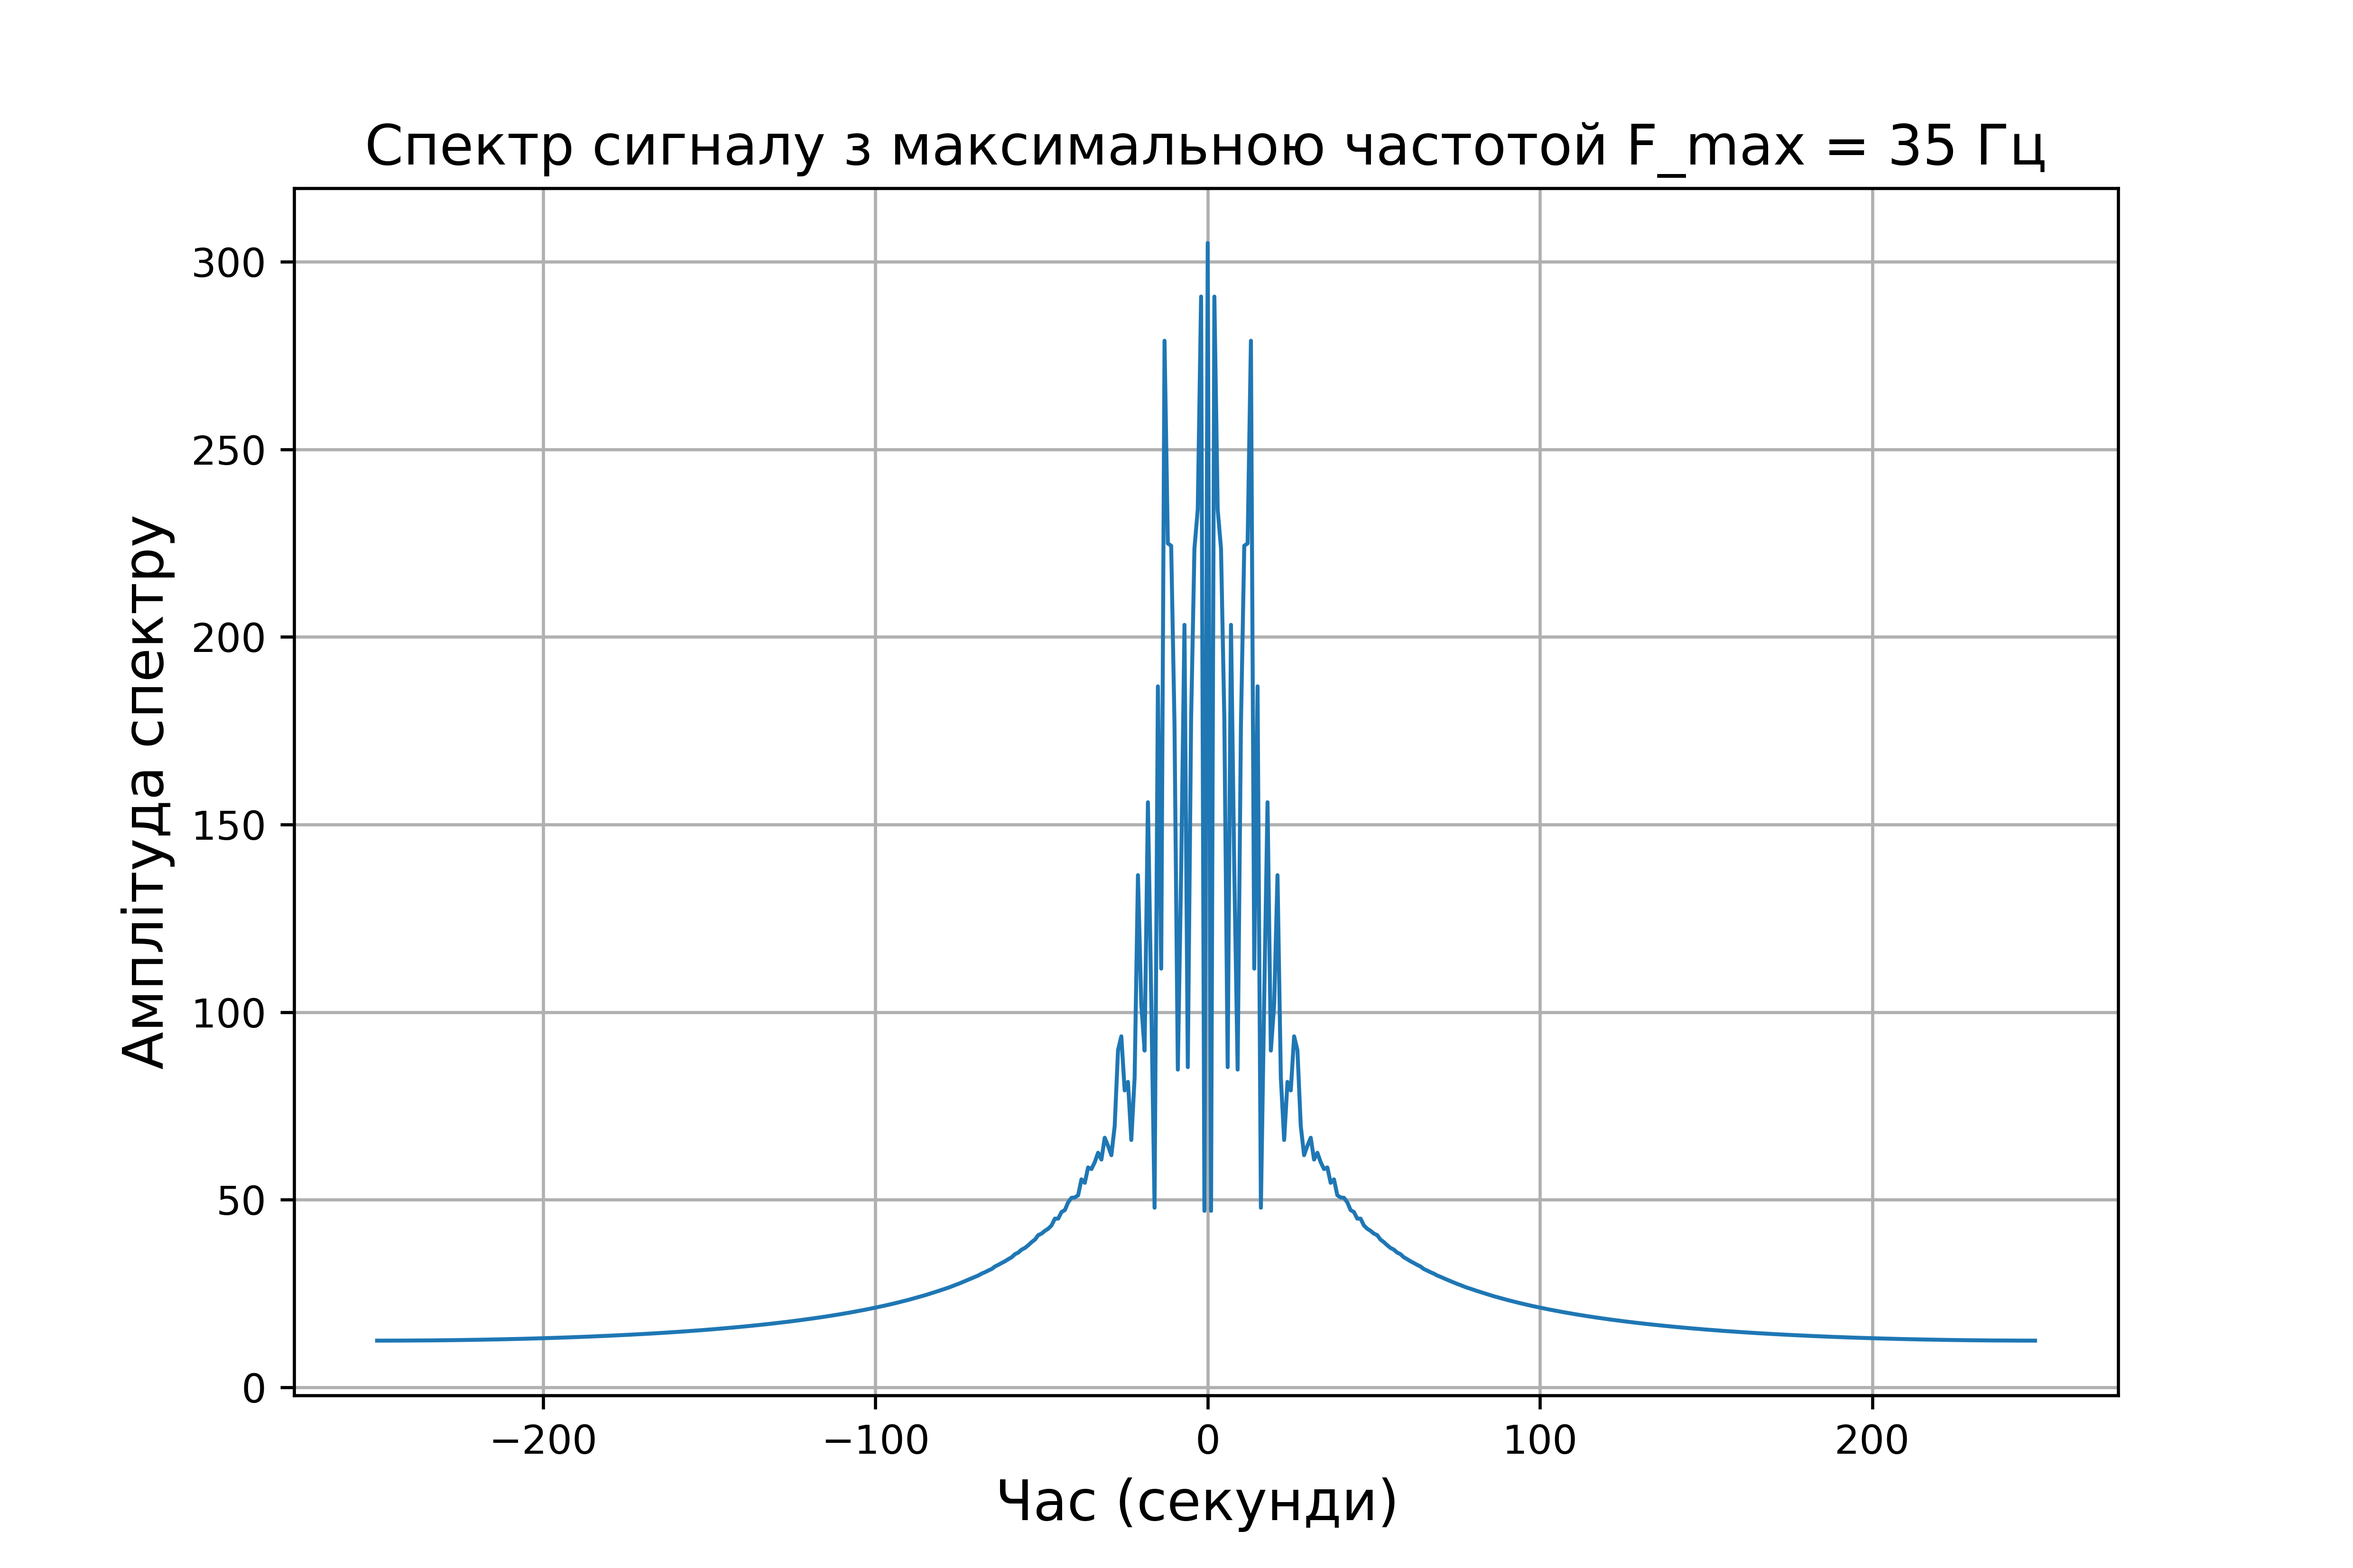
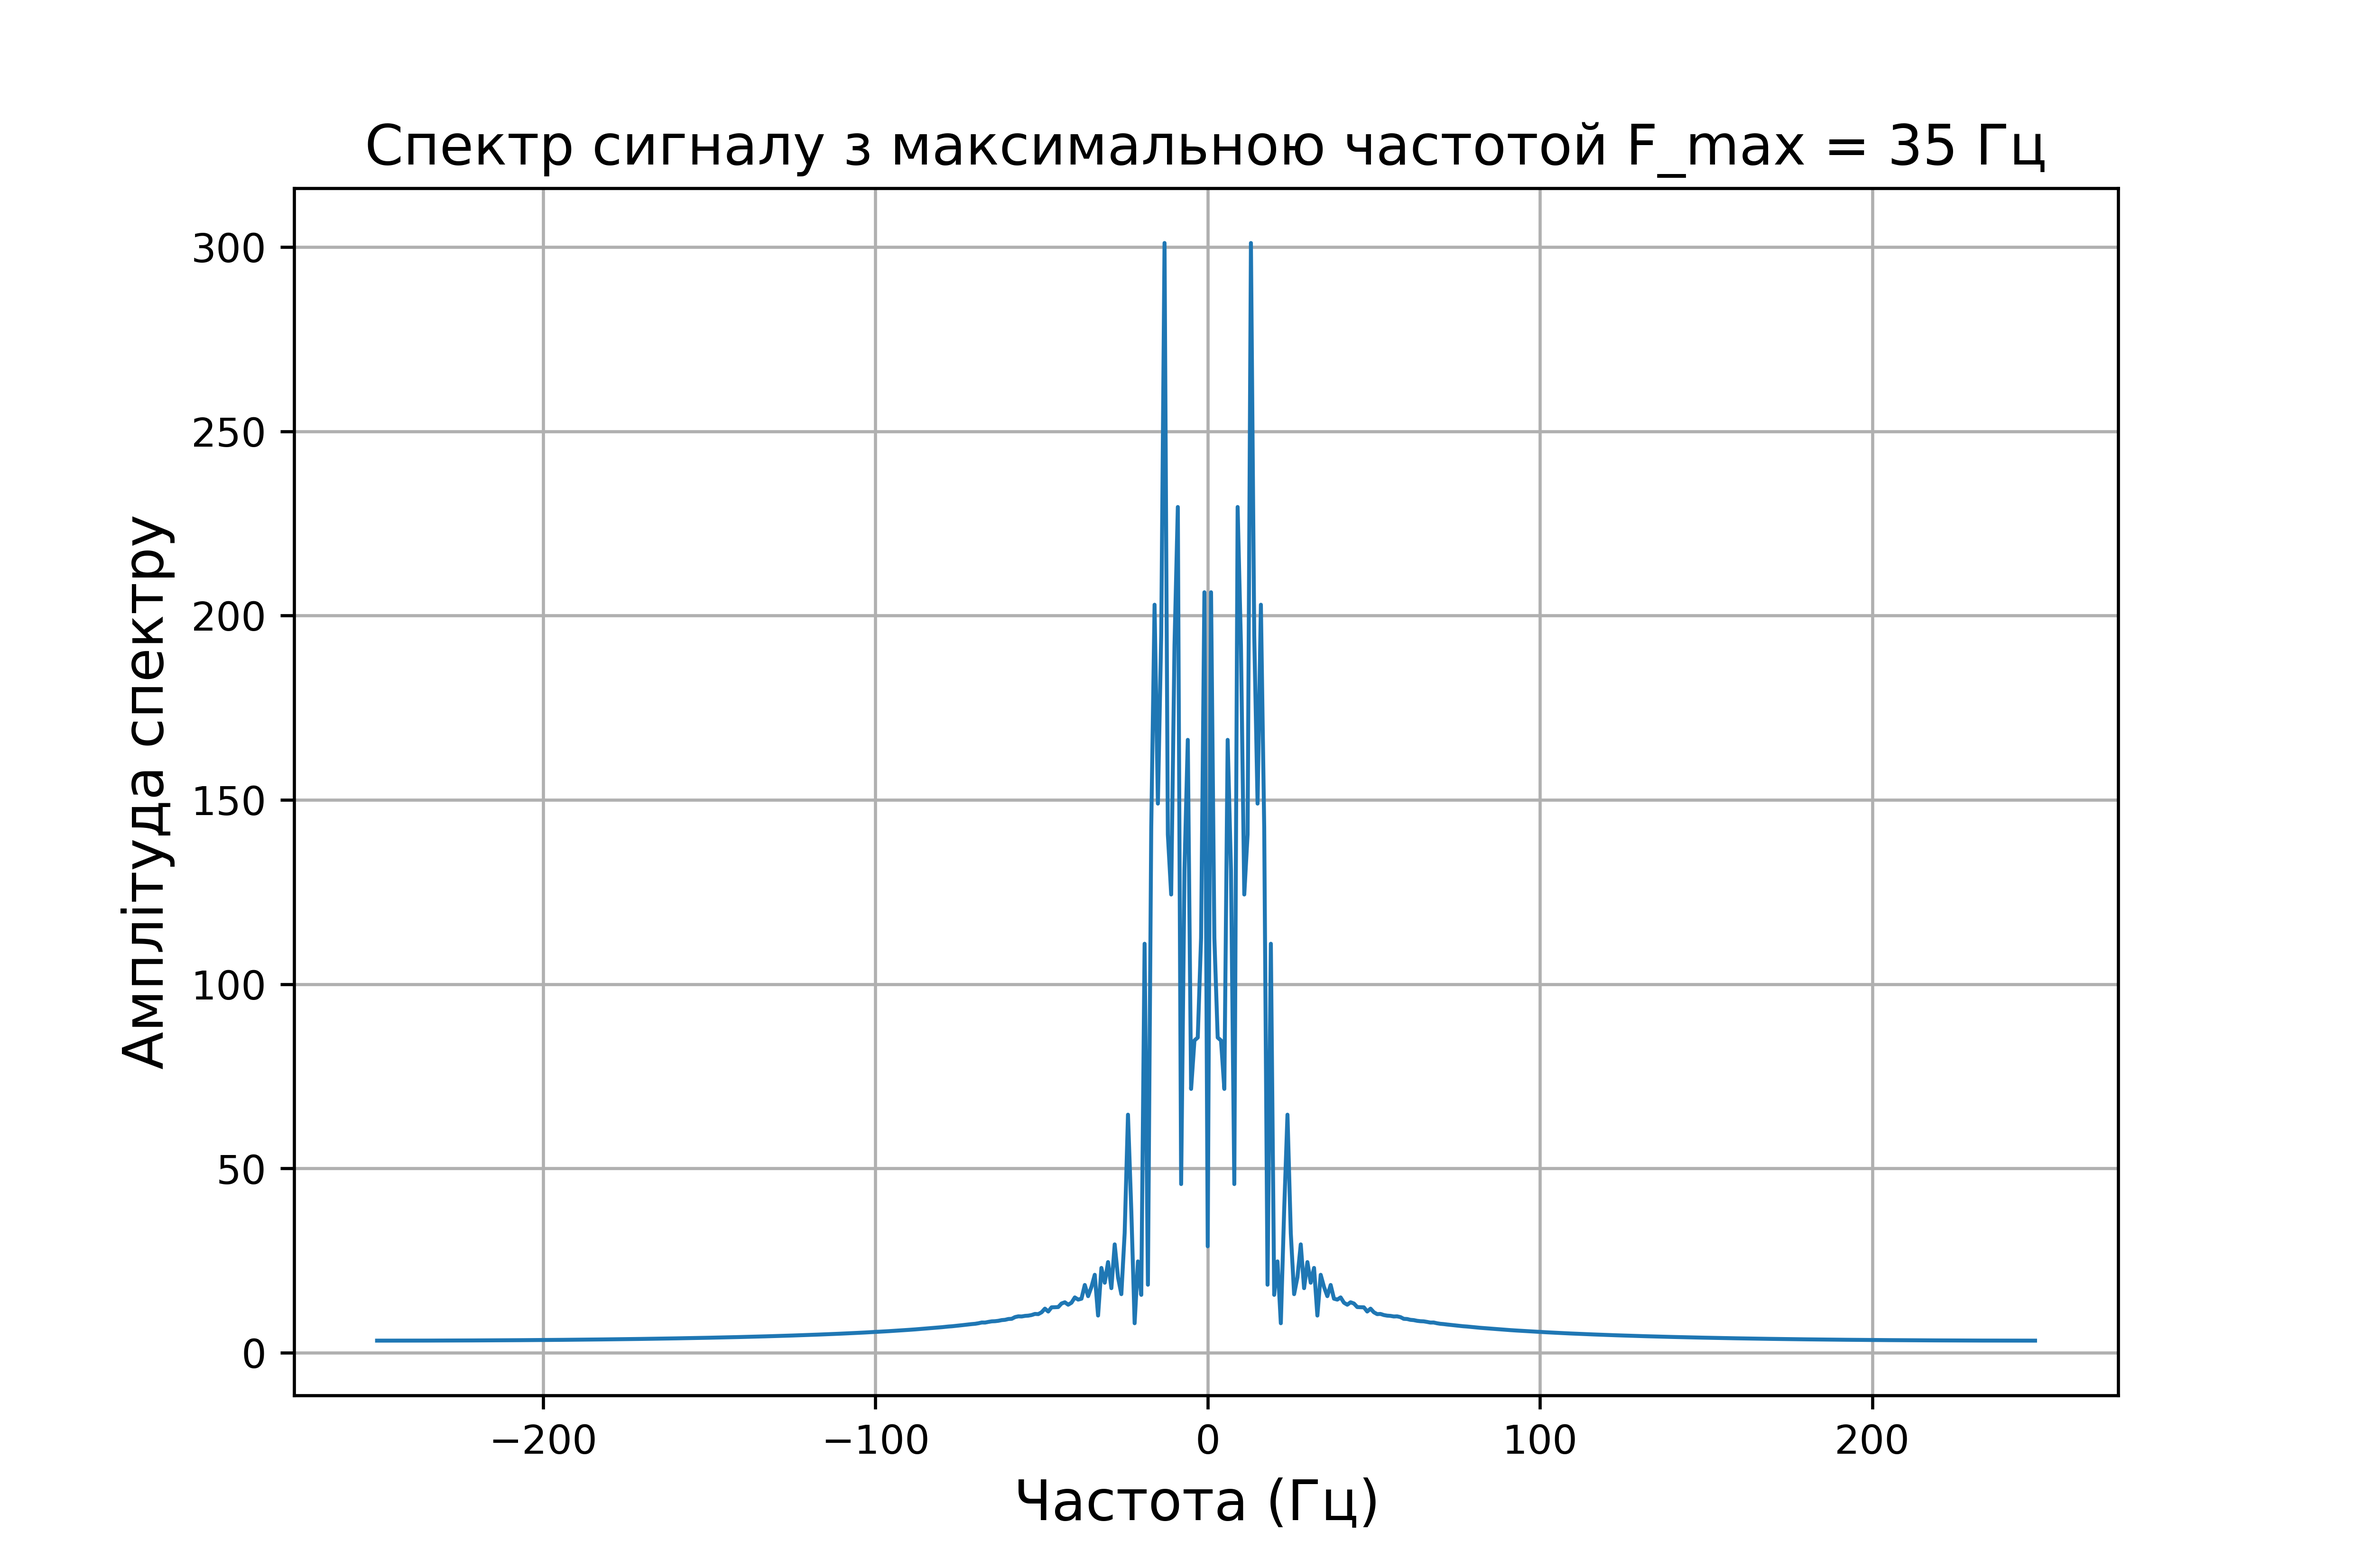
SignalProcessing2

diff --git a/SignalProcessing/SignalProcessing.py b/SignalProcessing/SignalProcessing.py
@@ -30,12 +30,93 @@ freq_countdown = fft.fftshift(freq_countdown)
 
 fig, ax = plt.subplots(figsize=(21/2.54, 14/2.54))
 ax.plot(freq_countdown, spectrum, linewidth=1)
-ax.set_xlabel('Час (секунди) ', fontsize=14)
+ax.set_xlabel('Частота (Гц) ', fontsize=14)
 ax.set_ylabel('Амплітуда спектру', fontsize=14)
 
 plt.title(f'Спектр сигналу з максимальною частотой F_max = {F_max} Гц', fontsize=14)
 ax.grid()
 fig.savefig('./figures/' + 'графік 2' + '.png', dpi=600)
 
+discrete_signals = []
+steps = (2, 4, 8, 16)
+for Dt in steps:
+    discrete_signal = numpy.zeros(n)
+    for i in range(0, round(n/Dt)):
+        discrete_signal[i*Dt] = filtered_signal[i*Dt]
+    discrete_signals.append(list(discrete_signal))
 
+fig, ax = plt.subplots(2, 2, figsize=(21/2.54, 14/2.54))
+s = 0
+for i in range(0, 2):
+    for j in range(0, 2):
+        ax[i][j].plot(timeline_ox, discrete_signals[s], linewidth=1)
+        ax[i][j].grid()
+        s += 1
+fig.supxlabel('Час (секунди)', fontsize=14)
+fig.supylabel('Амплітуда сигналу', fontsize=14)
+fig.suptitle(f'Сигнал з кроком дискретизації Dt = {steps}', fontsize=14)
+fig.savefig('./figures/' + 'графік 3' + '.png', dpi=600)
 
+discrete_spectrums = []
+for Ds in discrete_signals:
+    spectrum = fft.fft(Ds)
+    spectrum = numpy.abs(fft.fftshift(spectrum))
+    discrete_spectrums.append(list(spectrum))
+
+freq_countdown = fft.fftfreq(n, 1/n)
+freq_countdown = fft.fftshift(freq_countdown)
+fig, ax = plt.subplots(2, 2, figsize=(21/2.54, 14/2.54))
+s = 0
+for i in range(0, 2):
+    for j in range(0, 2):
+        ax[i][j].plot(freq_countdown, discrete_spectrums[s], linewidth=1)
+        ax[i][j].grid()
+        s += 1
+fig.supxlabel('Частота (Гц) ', fontsize=14)
+fig.supylabel('Амплітуда спектру', fontsize=14)
+fig.suptitle(f'Спектри сигналів з кроком дискретизації Dt = {steps}', fontsize=14)
+fig.savefig('./figures/' + 'графік 4' + '.png', dpi=600)
+
+F_filter = 42
+w = F_filter/(Fs/2)
+parameters_filter = signal.butter(3, w, 'low', output='sos')
+filtered_discretes_signal = []
+for discrete_signal in discrete_signals:
+    discrete_signal = signal.sosfiltfilt(parameters_filter, discrete_signal)
+    filtered_discretes_signal.append(list(discrete_signal))
+
+fig, ax = plt.subplots(2, 2, figsize=(21/2.54, 14/2.54))
+s = 0
+for i in range(0, 2):
+    for j in range(0, 2):
+        ax[i][j].plot(timeline_ox, filtered_discretes_signal[s], linewidth=1)
+        ax[i][j].grid()
+        s += 1
+fig.supxlabel('Час (секунди)', fontsize=14)
+fig.supylabel('Амплітуда сигналу', fontsize=14)
+fig.suptitle(f'Відновлені аналогові сигнали з кроком дискретизації Dt = {steps}', fontsize=14)
+fig.savefig('./figures/' + 'графік 5' + '.png', dpi=600)
+
+dispersions = []
+signal_noise = []
+for i in range(len(steps)):
+    E1 = filtered_discretes_signal[i] - filtered_signal
+    dispersion = numpy.var(E1)
+    dispersions.append(dispersion)
+    signal_noise.append(numpy.var(filtered_signal)/dispersion)
+
+fig, ax = plt.subplots(figsize=(21/2.54, 14/2.54))
+ax.plot(steps, dispersions, linewidth=1)
+ax.set_xlabel('Крок дискретизації', fontsize=14)
+ax.set_ylabel('Дисперсія', fontsize=14)
+plt.title(f'Залежність дисперсії від кроку дискретизації', fontsize=14)
+ax.grid()
+fig.savefig('./figures/' + 'графік 6' + '.png', dpi=600)
+
+fig, ax = plt.subplots(figsize=(21/2.54, 14/2.54))
+ax.plot(steps, signal_noise, linewidth=1)
+ax.set_xlabel('Крок дискретизації', fontsize=14)
+ax.set_ylabel('ССШ', fontsize=14)
+plt.title(f'Залежність співвідношення сигнал-шум від кроку дискретизації', fontsize=14)
+ax.grid()
+fig.savefig('./figures/' + 'графік 7' + '.png', dpi=600)
